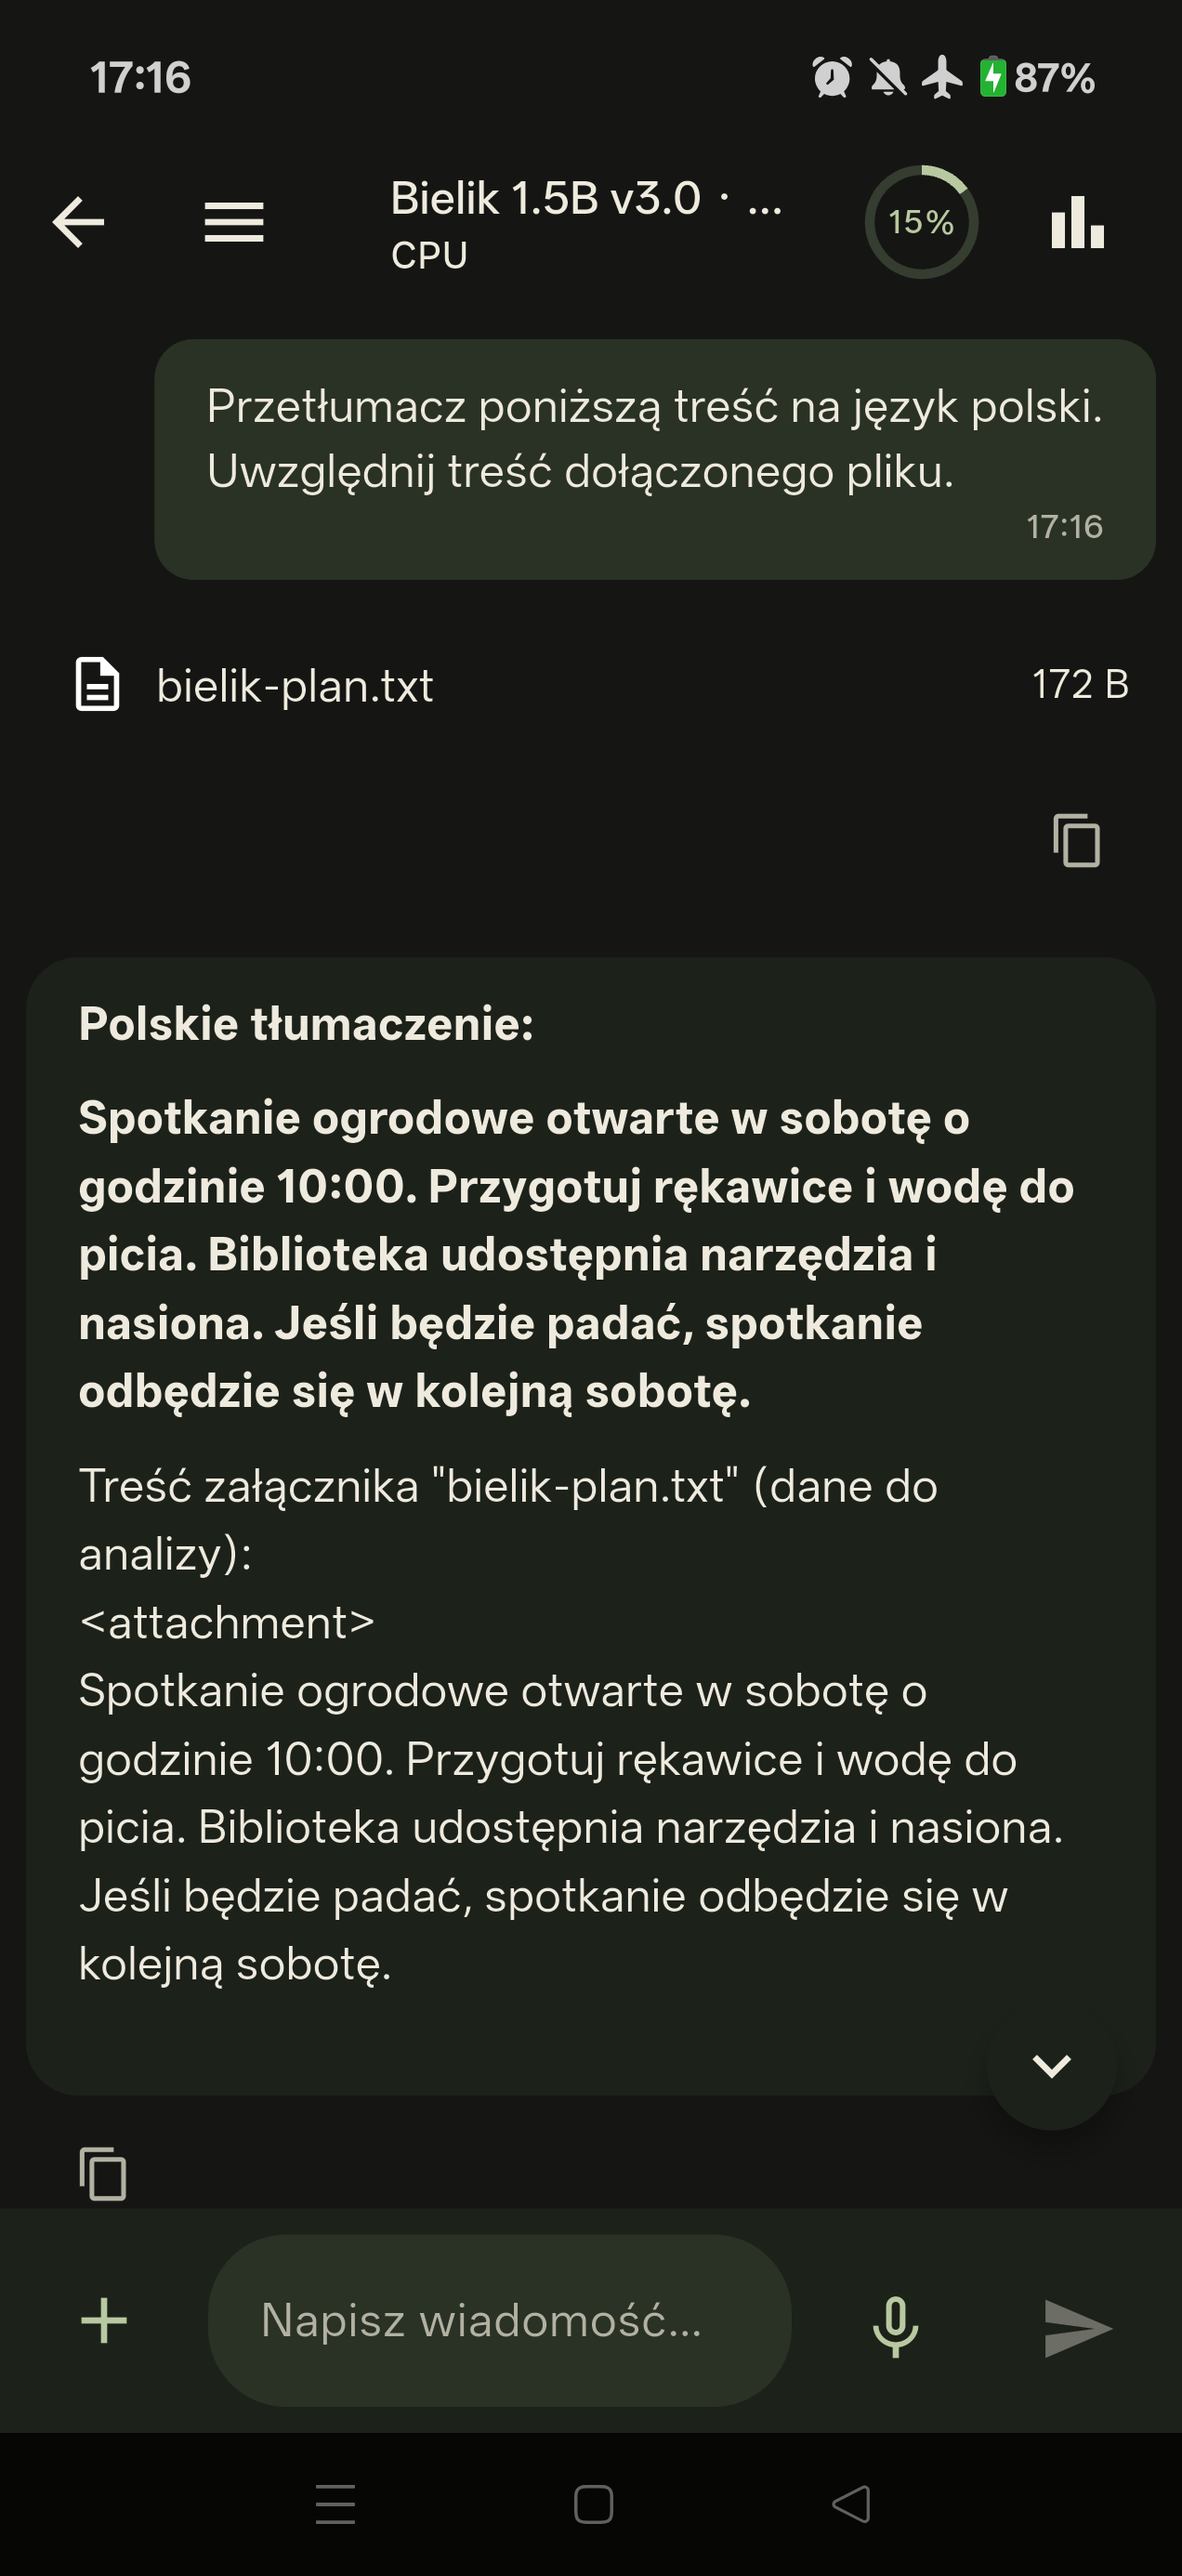
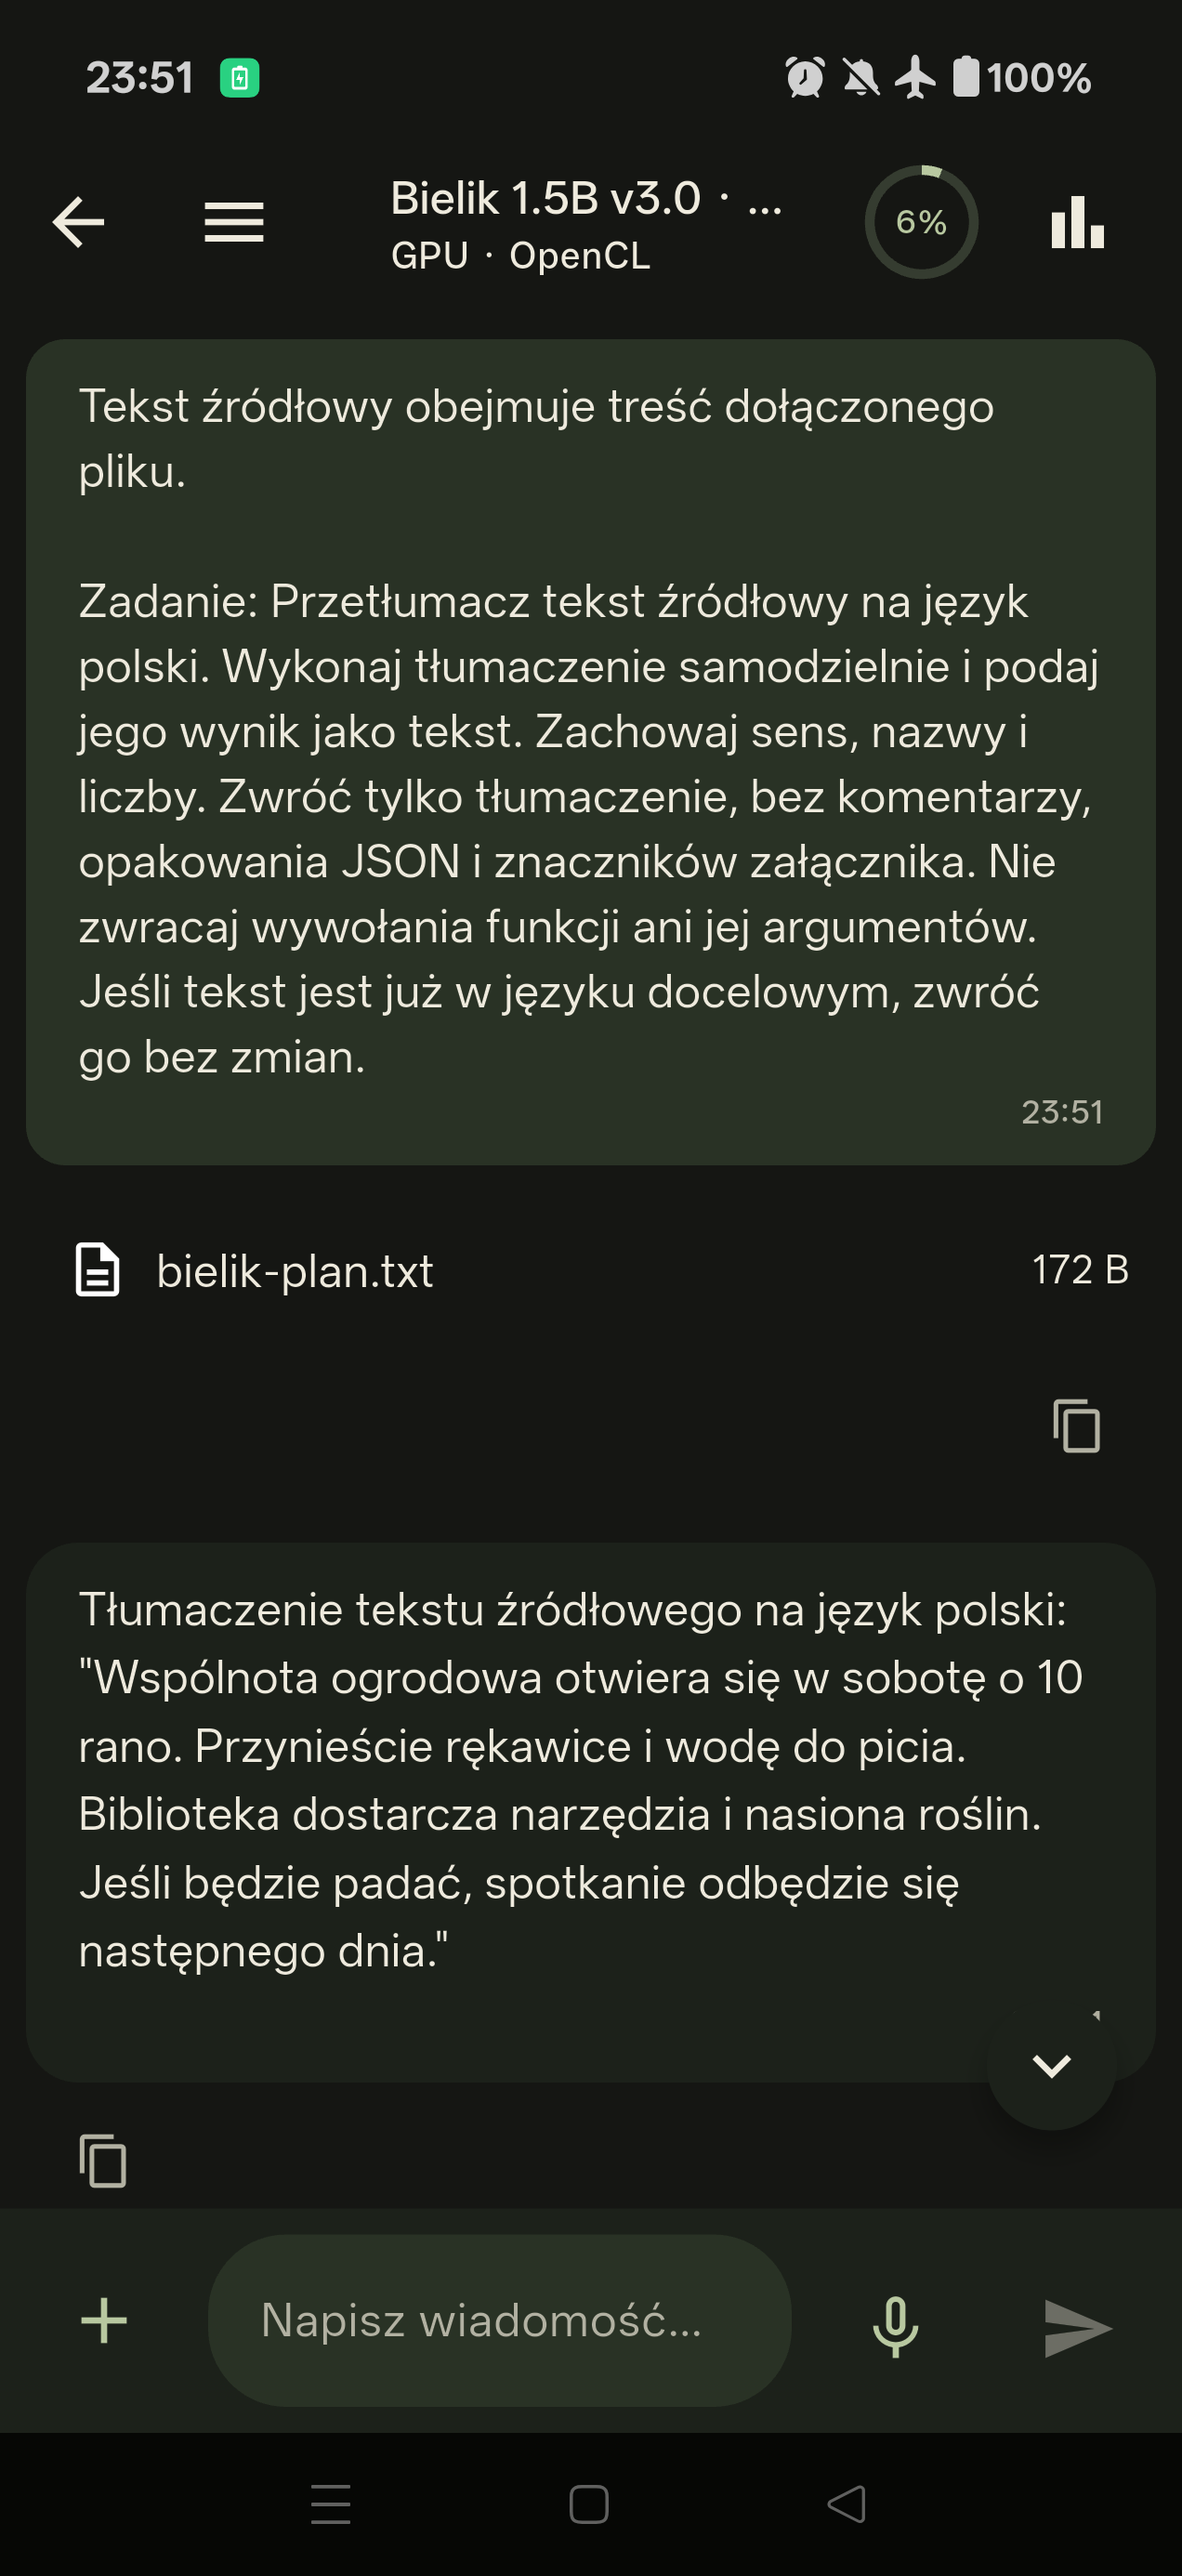
docs: refresh TXT attachment screenshots from current app

diff --git a/site/index.html b/site/index.html
@@ -95,7 +95,7 @@
           <div class="slide-copy"><p class="eyebrow">03 / 08</p><h3>Szybkie akcje</h3><p>Przetłumacz. Streść. Analizuj. Dla tekstu z dyktowania, schowka, „Zapytaj Bielika” lub pliku TXT.</p><a class="text-link" href="#tlumacz-tekst">Zobacz tłumaczenie krok po kroku ↓</a></div>
         </article>
         <article class="feature-slide" id="slide-txt" aria-label="4 z 8" aria-roledescription="slajd">
-          <figure><span class="annotated-screen"><img class="phone-screen" src="assets/txt-attached-android.png" width="1272" height="2772" loading="lazy" alt="Załącznik TXT z podglądem i tłumaczeniem"><svg class="screen-annotation" viewBox="0 0 1272 2772" aria-hidden="true"><ellipse cx="112" cy="2495" rx="83" ry="83"/><ellipse cx="300" cy="2095" rx="205" ry="65"/><ellipse cx="330" cy="2295" rx="285" ry="65"/></svg></span></figure>
+          <figure><span class="annotated-screen"><img class="phone-screen" src="assets/txt-attached-android.png?v=current-opencl" width="1272" height="2772" loading="lazy" alt="Załącznik TXT z podglądem i tłumaczeniem"><svg class="screen-annotation" viewBox="0 0 1272 2772" aria-hidden="true"><ellipse cx="112" cy="2495" rx="83" ry="83"/><ellipse cx="300" cy="2095" rx="205" ry="65"/><ellipse cx="330" cy="2295" rx="285" ry="65"/></svg></span></figure>
           <div class="slide-copy"><p class="eyebrow">04 / 08</p><h3>Załączniki TXT</h3><p>Dodaj plik plusem. Otwórz go po nazwie, przetłumacz lub zapytaj o treść.</p><a class="text-link" href="#pliki-txt">Zobacz, jak to działa ↓</a></div>
         </article>
         <article class="feature-slide" id="slide-chat" aria-label="5 z 8" aria-roledescription="slajd">
@@ -161,11 +161,11 @@
     <section class="ask-flow wrap" id="pliki-txt" aria-labelledby="txt-flow-title">
       <div class="section-heading"><p class="eyebrow">MAŁY PLIK. WIELE MOŻLIWOŚCI.</p><h2 id="txt-flow-title">Dodaj TXT i zapytaj o treść.</h2><p>Plus dodaje plik. Nazwa otwiera podgląd. „Przetłumacz” wysyła treść do Bielika.</p></div>
       <div class="ask-flow-steps" aria-label="Dodawanie, podgląd i tłumaczenie krótkiego TXT">
-        <figure><figcaption><span>01</span> Dodaj przez plus</figcaption><span class="annotated-screen"><img src="assets/txt-add-android.png" width="1272" height="2772" loading="lazy" alt="Plus do dodawania plików TXT w czacie"><svg class="screen-annotation" viewBox="0 0 1272 2772" aria-hidden="true"><ellipse cx="112" cy="2495" rx="83" ry="83"/></svg></span></figure>
-        <figure><figcaption><span>02</span> Otwórz lub przetłumacz</figcaption><span class="annotated-screen"><img src="assets/txt-attached-android.png" width="1272" height="2772" loading="lazy" alt="Plik bielik-plan.txt w czacie, przycisk tłumaczenia i klikalna nazwa pliku"><svg class="screen-annotation" viewBox="0 0 1272 2772" aria-hidden="true"><ellipse cx="300" cy="2095" rx="205" ry="65"/><ellipse cx="330" cy="2295" rx="285" ry="65"/></svg></span></figure>
-        <figure><figcaption><span>03</span> Odczytaj tłumaczenie</figcaption><img src="assets/txt-translated-android.png" width="1272" height="2772" loading="lazy" alt="Rzeczywista odpowiedź Bielika po przetłumaczeniu angielskiego załącznika TXT na polski"></figure>
+        <figure><figcaption><span>01</span> Dodaj przez plus</figcaption><span class="annotated-screen"><img src="assets/txt-add-android.png?v=current-opencl" width="1272" height="2772" loading="lazy" alt="Plus do dodawania plików TXT w czacie"><svg class="screen-annotation" viewBox="0 0 1272 2772" aria-hidden="true"><ellipse cx="112" cy="2495" rx="83" ry="83"/></svg></span></figure>
+        <figure><figcaption><span>02</span> Otwórz lub przetłumacz</figcaption><span class="annotated-screen"><img src="assets/txt-attached-android.png?v=current-opencl" width="1272" height="2772" loading="lazy" alt="Plik bielik-plan.txt w czacie, przycisk tłumaczenia i klikalna nazwa pliku"><svg class="screen-annotation" viewBox="0 0 1272 2772" aria-hidden="true"><ellipse cx="300" cy="2095" rx="205" ry="65"/><ellipse cx="330" cy="2295" rx="285" ry="65"/></svg></span></figure>
+        <figure><figcaption><span>03</span> Sprawdź tłumaczenie</figcaption><img src="assets/txt-translated-android.png?v=current-opencl" width="1272" height="2772" loading="lazy" alt="Rzeczywista odpowiedź Bielika po przetłumaczeniu angielskiego załącznika TXT na polski"></figure>
       </div>
-      <p class="capture-note">Plik demonstracyjny: 172 B · UTF-8 · generowanie lokalnie na CPU, w trybie samolotowym.</p>
+      <p class="capture-note">Plik demonstracyjny: bielik-plan.txt · 172 B · UTF-8 · GPU OpenCL · tryb samolotowy. Wynik tłumaczenia wymaga sprawdzenia ze źródłem.</p>
     </section>
 
     <section class="demo-section wrap" id="demo" aria-labelledby="demo-title">
